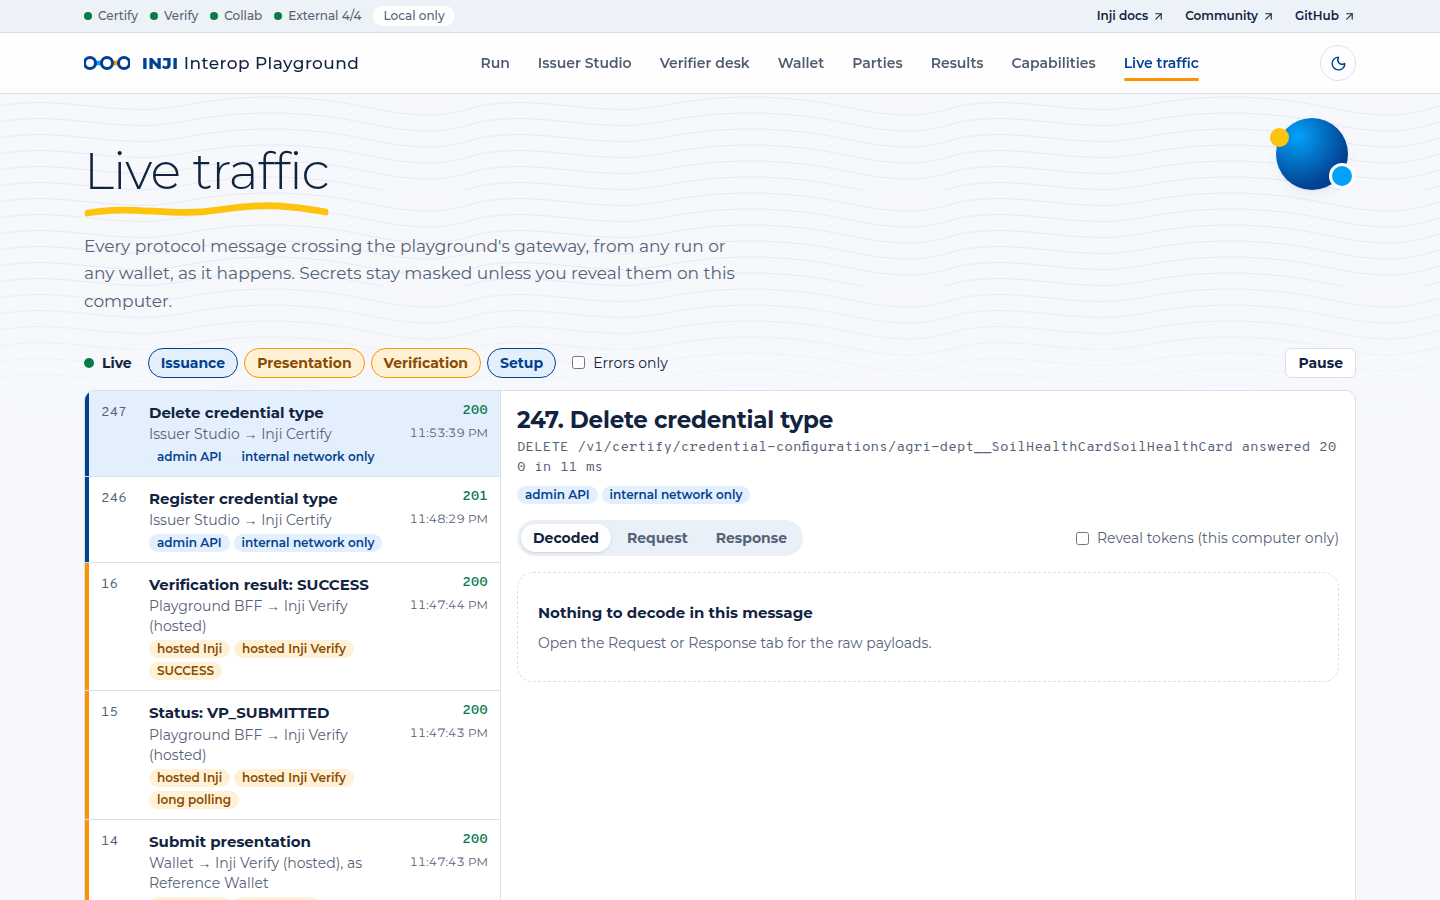
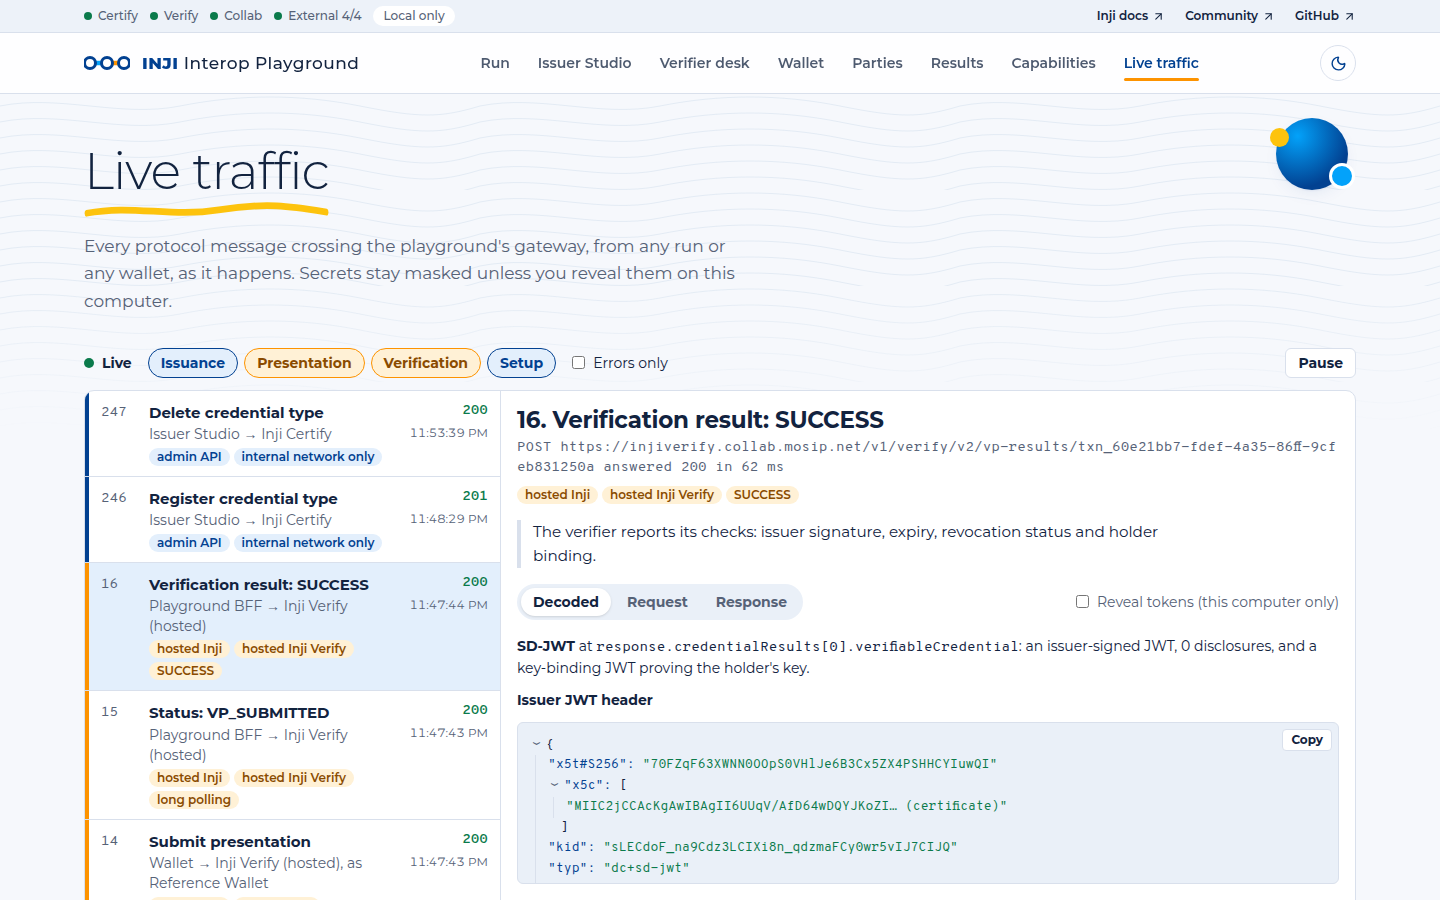
Update traffic screenshot and changelog

diff --git a/CHANGELOG.md b/CHANGELOG.md
@@ -14,3 +14,5 @@
 - Results matrix (75 journeys), capabilities and QR Lab, live traffic and decoder.
 - One-command Compose bundle, Cloudflare tunnel mode for phones, CI and a nightly matrix workflow.
 - 41 documented gaps between Inji components and the standards.
+- Interface follows mosip.io: white paper with faint wave lines, MOSIP navy and amber, Montserrat titles, a utility
+  bar with live service status. Light is the default and dark stays as a toggle.
